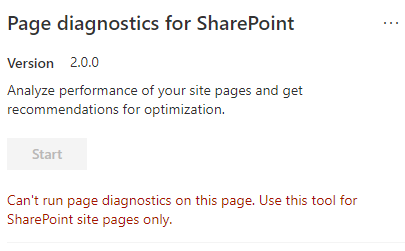
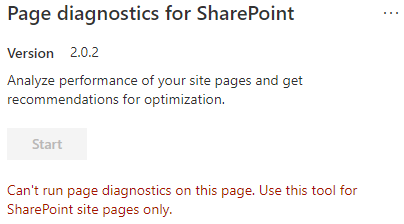
Content and image updates for 2.0.2
Updated images and content to be current with tool version 2.0.2.

diff --git a/Enterprise/page-diagnostics-for-spo.md b/Enterprise/page-diagnostics-for-spo.md
@@ -68,7 +68,10 @@ Select **Start** to begin collecting data for analysis.
 
 ## What you'll see in the Page Diagnostics for SharePoint tool
 
-1. The **About** link, which resembles ellipses (...) in the top right corner will provide general guidance and details regarding the tool including a link back to this article. It also includes a direct link to SharePoint performance recommendations, a third party notice and an option to provide feedback about the tool.  
+1. Click the ellipses (...) in the top right corner of the tool to find the following links:
+   1. The **Additional resources** link provides general guidance and details regarding the tool including a link back to this article.
+   1. The **Give feedback** link provides a link to the _SharePoint Sites and Collaboration User Voice_ site.
+   1. The **About** link includes the currently installed version of the tool and a direct link to the tool's third party notice.  
 1. The **Correlation ID, SPRequestDuration, SPIISLatency**, **Page load time**, and **URL** details are informational and can be used for a few purposes.
 
     ![Page diagnostics details](media/page-diagnostics-for-spo/pagediag-details.PNG)
@@ -111,12 +114,12 @@ Red or yellow results may also indicate web parts that refresh data too frequent
 
 The **Network Trace** tab provides detailed information about both requests to build the page and the responses received from SharePoint.
 
-1. **Look for item load times flagged as red**. The performance of each request and response are color coded, based on their impact on the overall page performance as follows:
+1. **Look for item load times flagged as red**. Each request and response is color coded to indicate its impact on overall page performance using the following latency metrics:
     - Green: \< 500ms
     - Yellow: 500-1000ms
     - Red: \> 1000ms
 
-    ![Network Trace](media/page-diagnostics-for-spo/pagediag-networktrace.png)
+    ![Network Trace](media/page-diagnostics-for-spo/pagediag-networktrace-red.png)
 
     In the image shown above, the red item pertains to the default page. It will always show red unless the page loads in \< 1000ms (less than 1 second).
 
